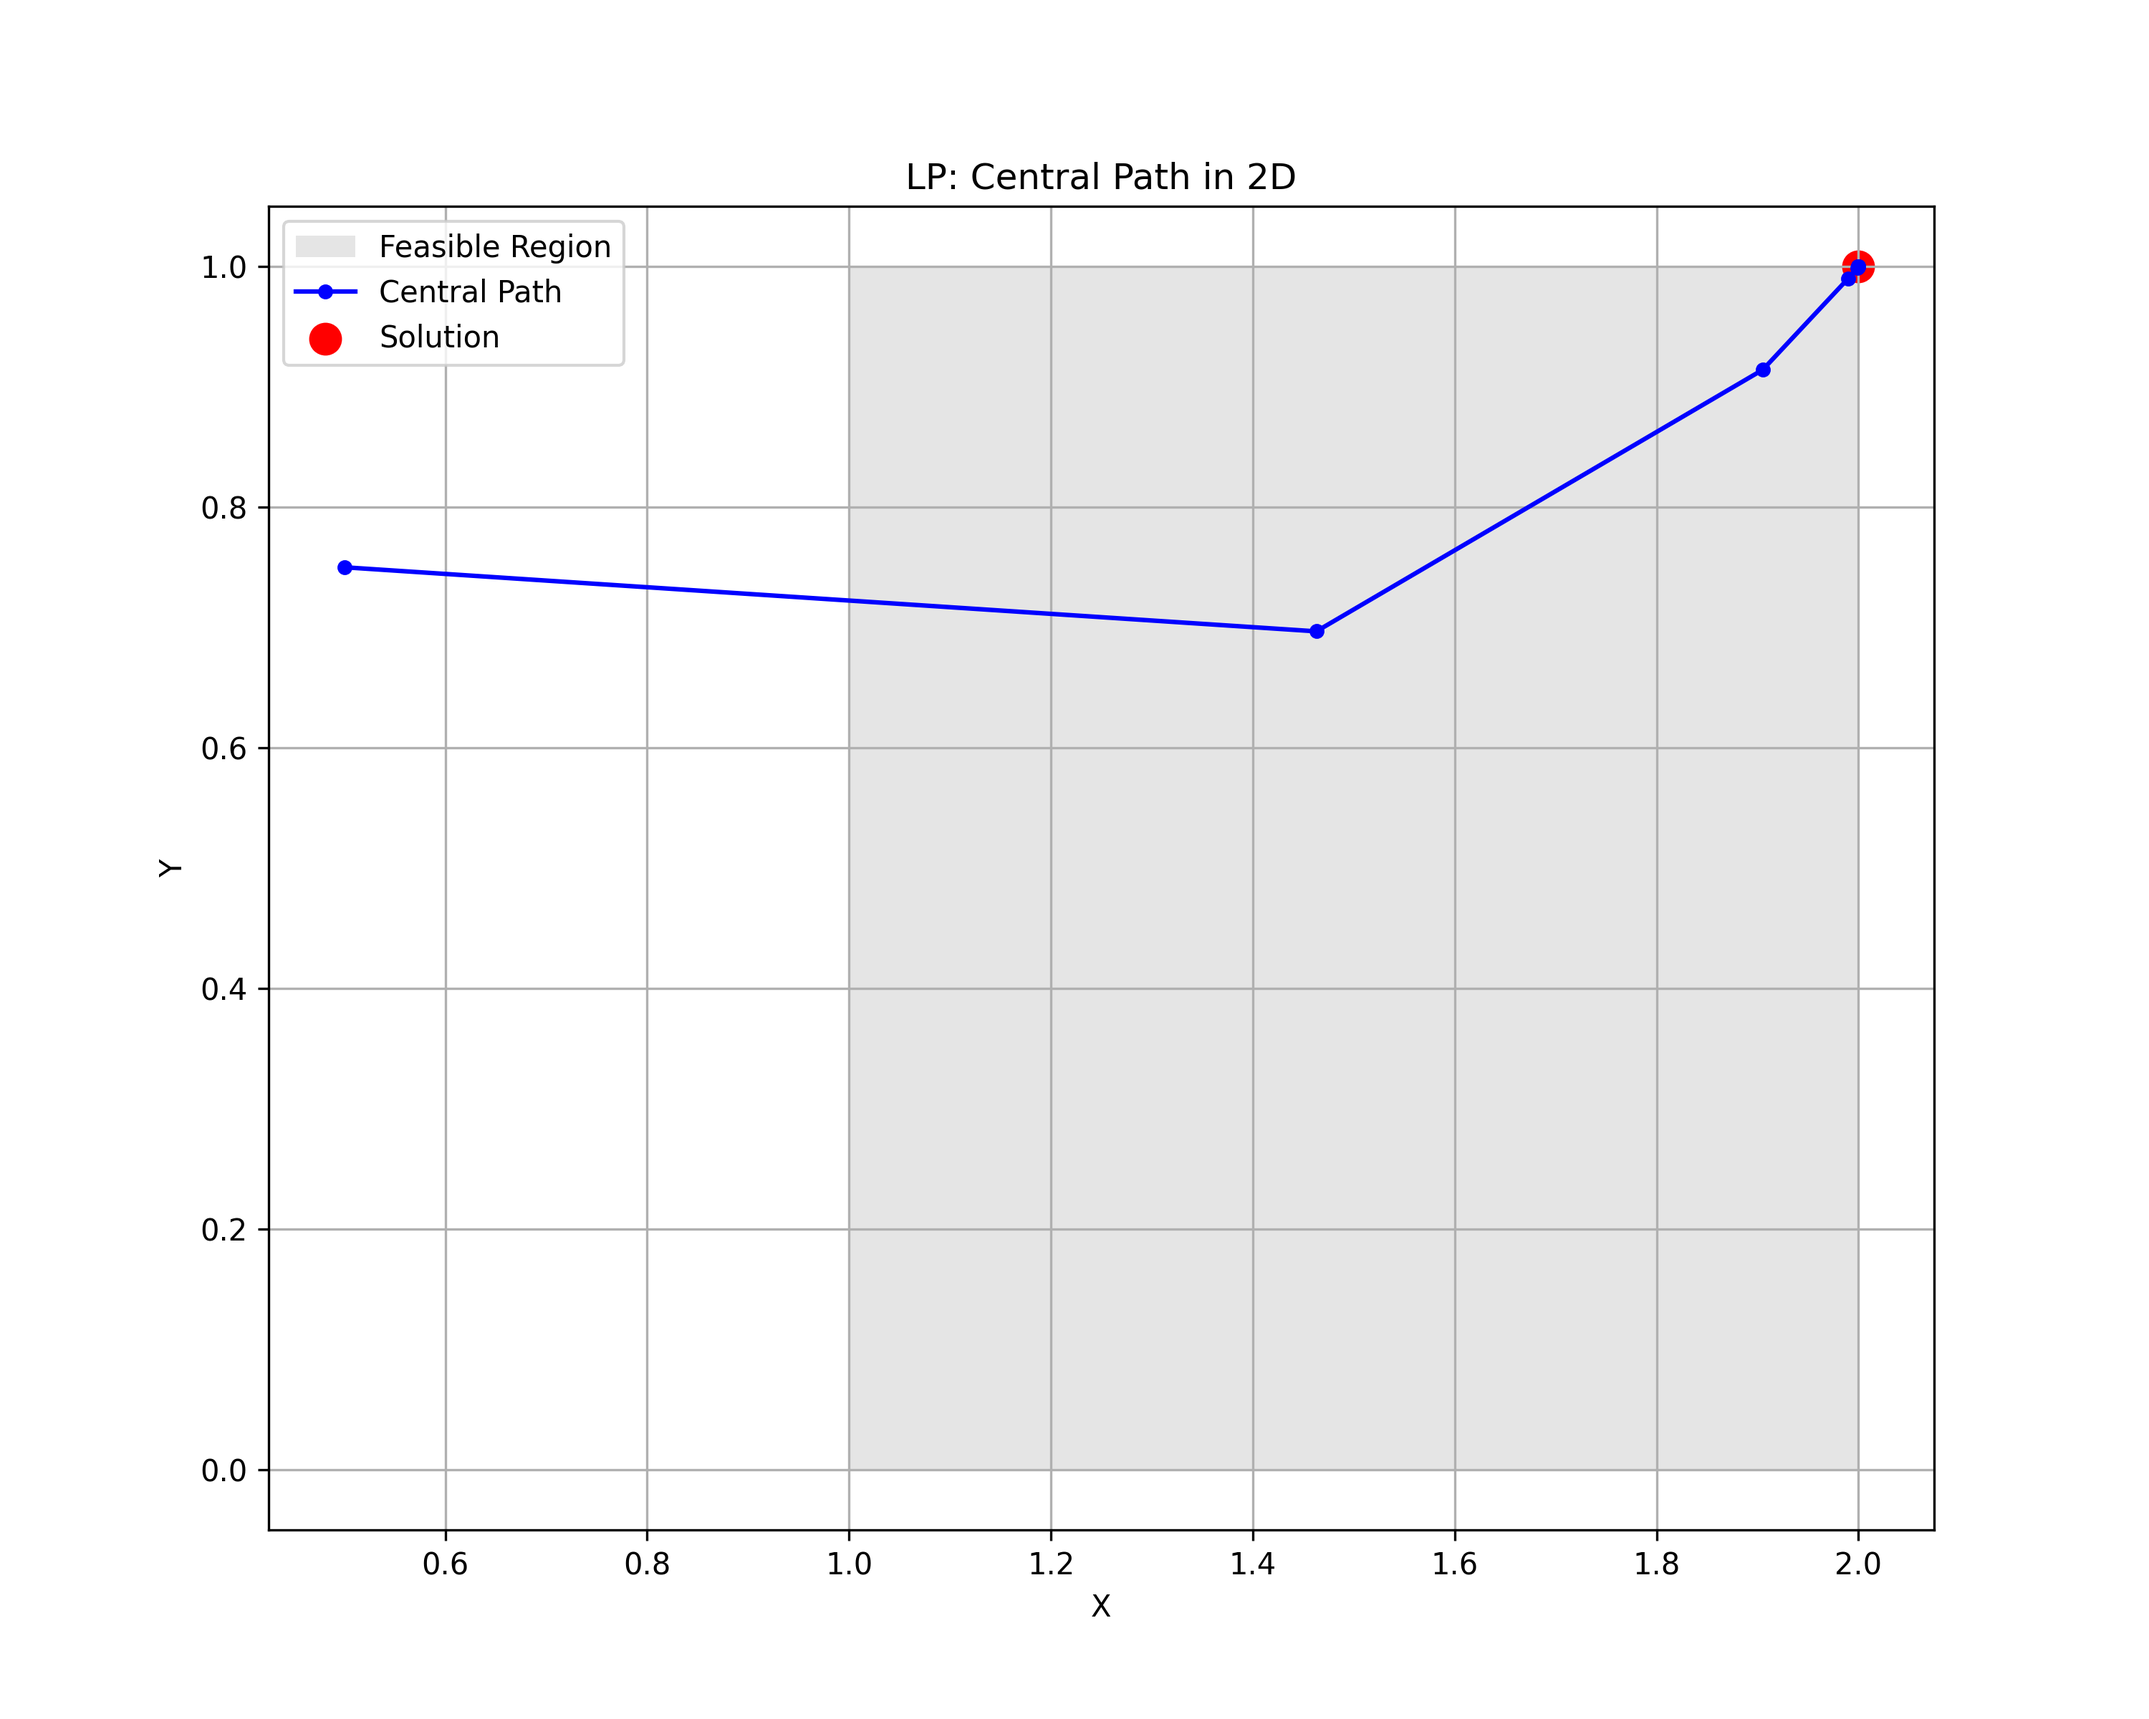
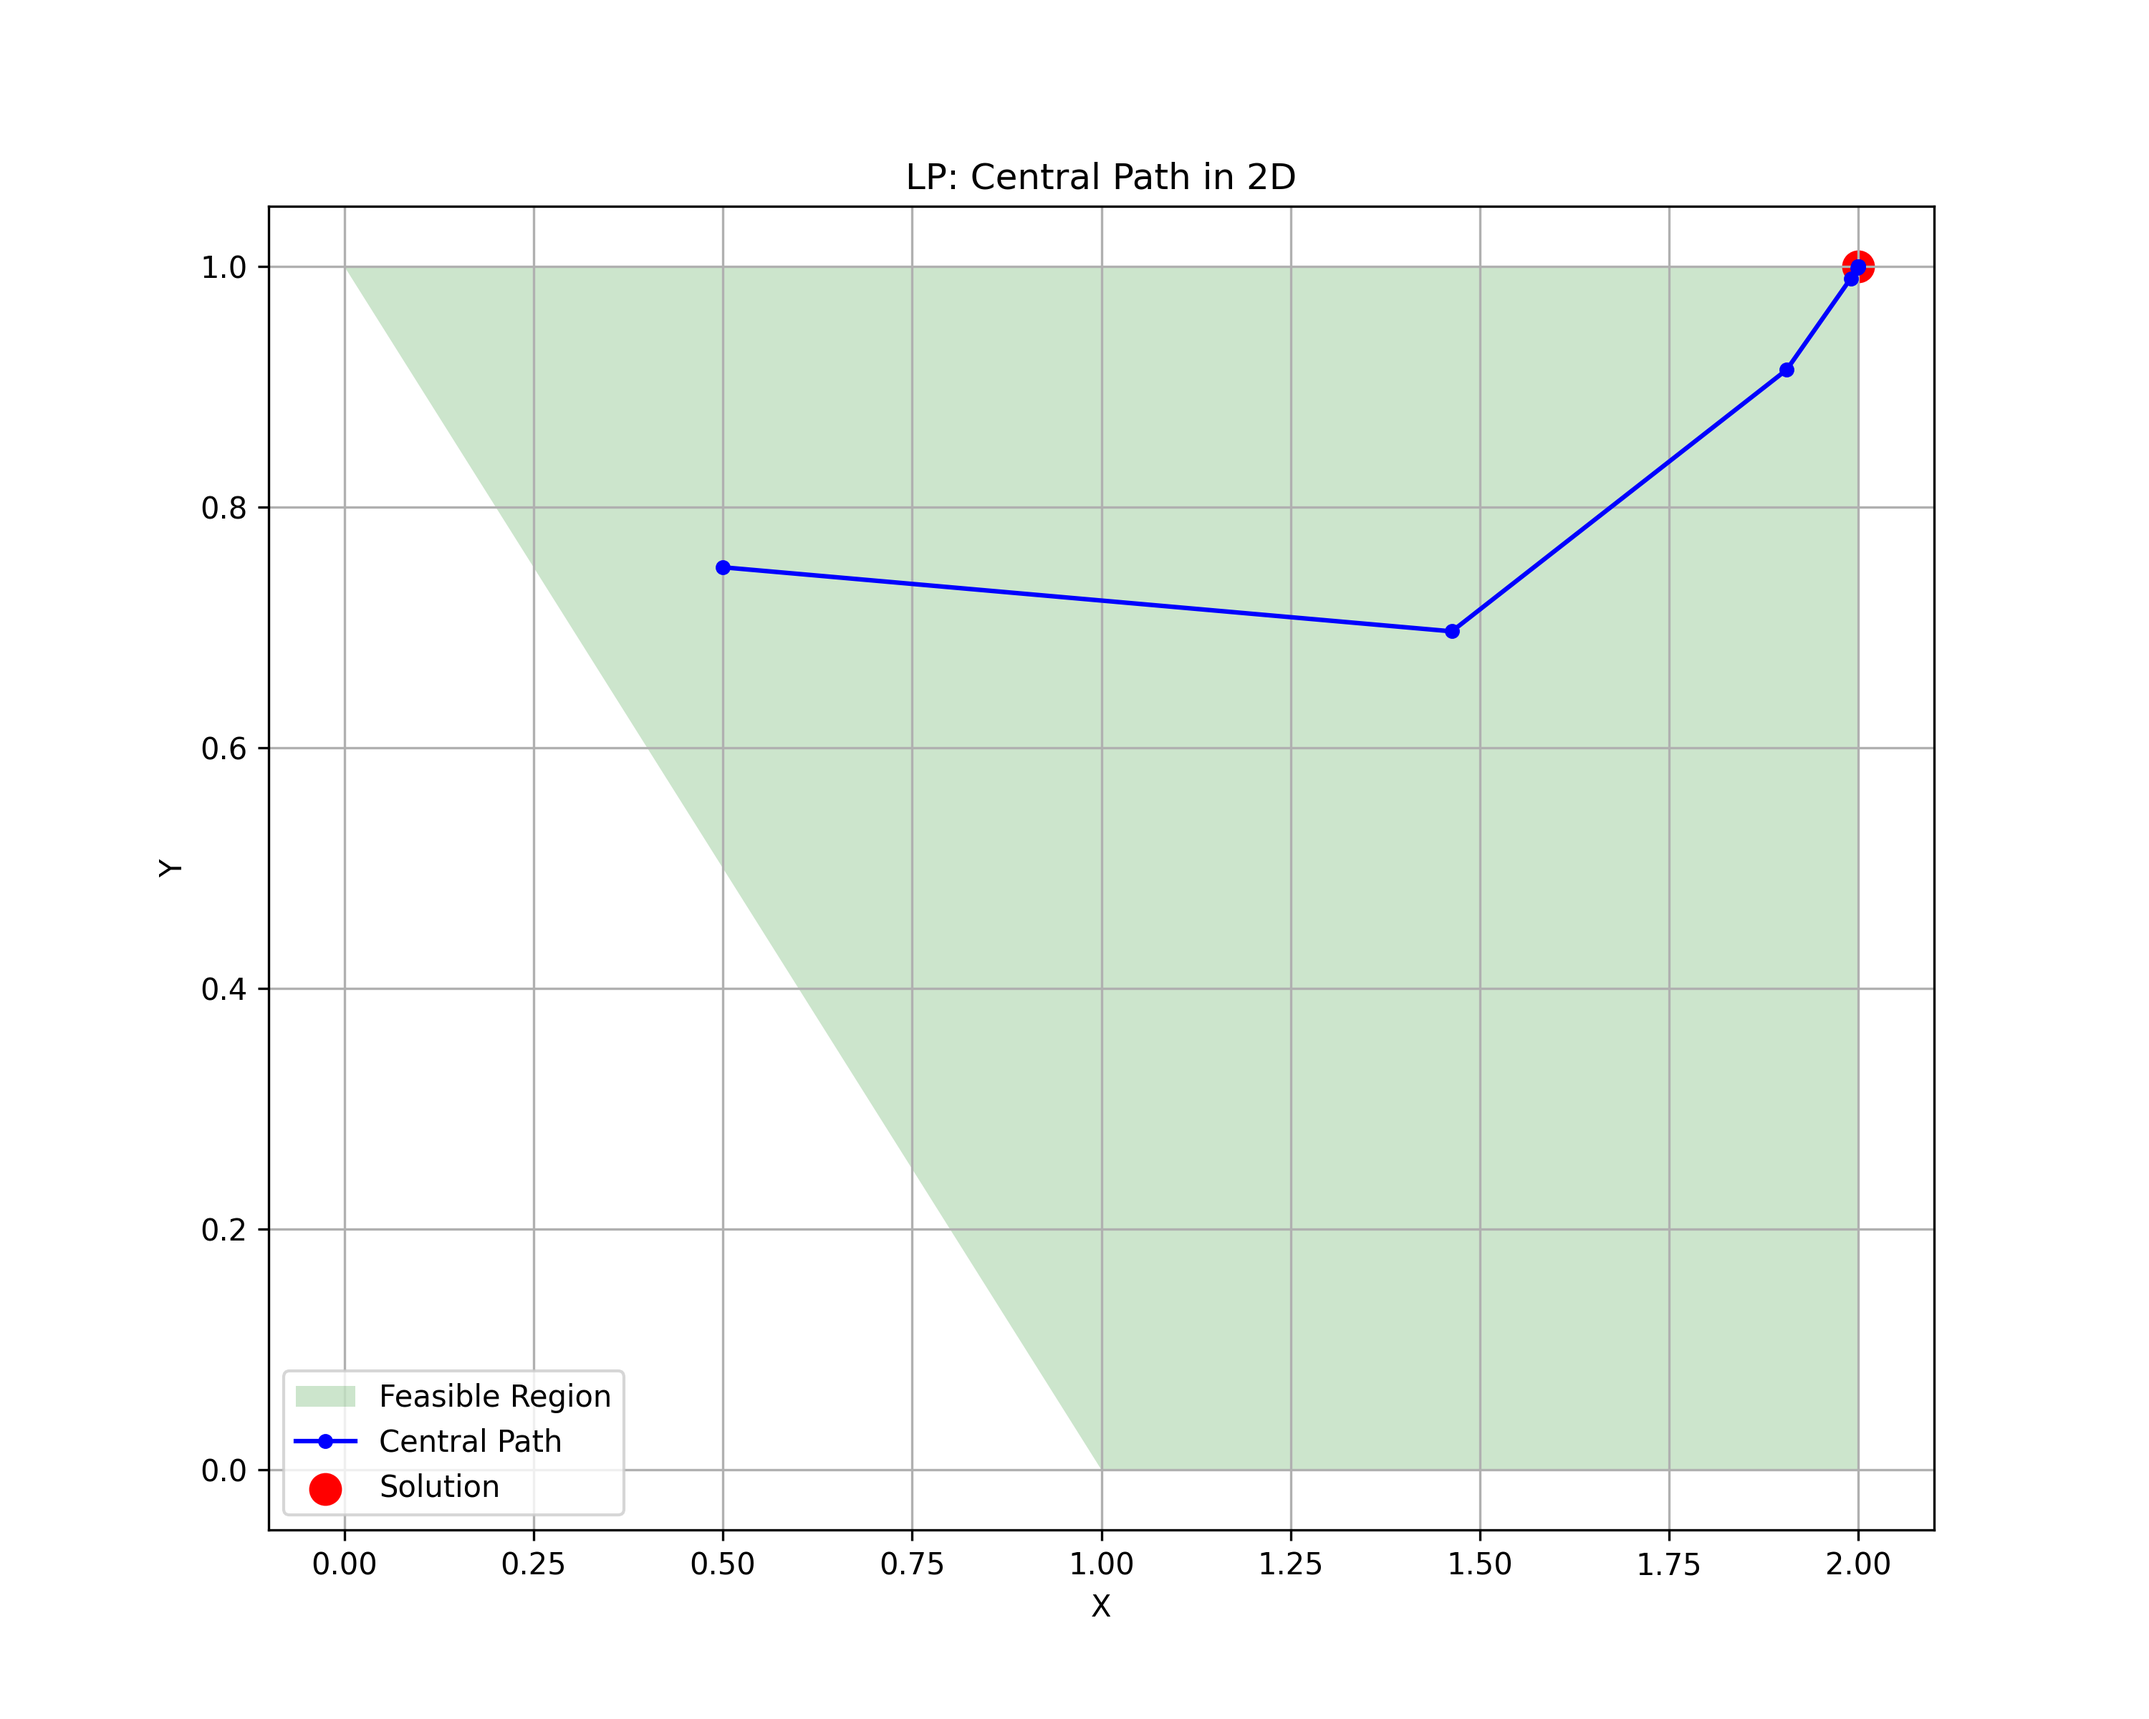
fixed plot

diff --git a/tests/test_constrained_min.py b/tests/test_constrained_min.py
@@ -1,4 +1,4 @@
-import unittest
+import unittest
 import numpy as np
 import os
 
@@ -57,7 +57,7 @@ class TestConstrainedMin(unittest.TestCase):
 
             vertices = np.array([[1, 0, 0], [0, 1, 0], [0, 0, 1]])
             ax.plot_trisurf(
-                vertices[:, 0], vertices[:, 1], vertices[:, 2], alpha=0.2, color="gray"
+                vertices[:, 0], vertices[:, 1], vertices[:, 2], alpha=0.2, color="green"
             )
 
             path = np.array(outer_hist)
@@ -75,7 +75,13 @@ class TestConstrainedMin(unittest.TestCase):
             ax.set_ylabel("Y")
             ax.set_zlabel("Z")
             ax.set_title("QP: Central Path in 3D")
-            ax.legend()
+
+            feasible_proxy = plt.Rectangle((0, 0), 1, 1, color="green", alpha=0.2)
+            handles, labels = ax.get_legend_handles_labels()
+            handles.insert(0, feasible_proxy)
+            labels.insert(0, "Feasible Region")
+            ax.legend(handles, labels)
+
             plt.savefig(os.path.join("output", "qp_central_path.png"), dpi=300)
             plt.close()
 
@@ -119,11 +125,13 @@ class TestConstrainedMin(unittest.TestCase):
 
             plt.figure(figsize=(10, 8))
 
-            vertices = np.array([[1, 0], [2, 0], [2, 1], [1, 1]])
+            x_vals = np.array([0, 1, 2, 2])
+            y_vals = np.array([1, 0, 0, 1])
+
             plt.fill(
-                vertices[:, 0],
-                vertices[:, 1],
-                "gray",
+                x_vals,
+                y_vals,
+                "green",
                 alpha=0.2,
                 label="Feasible Region",
             )
